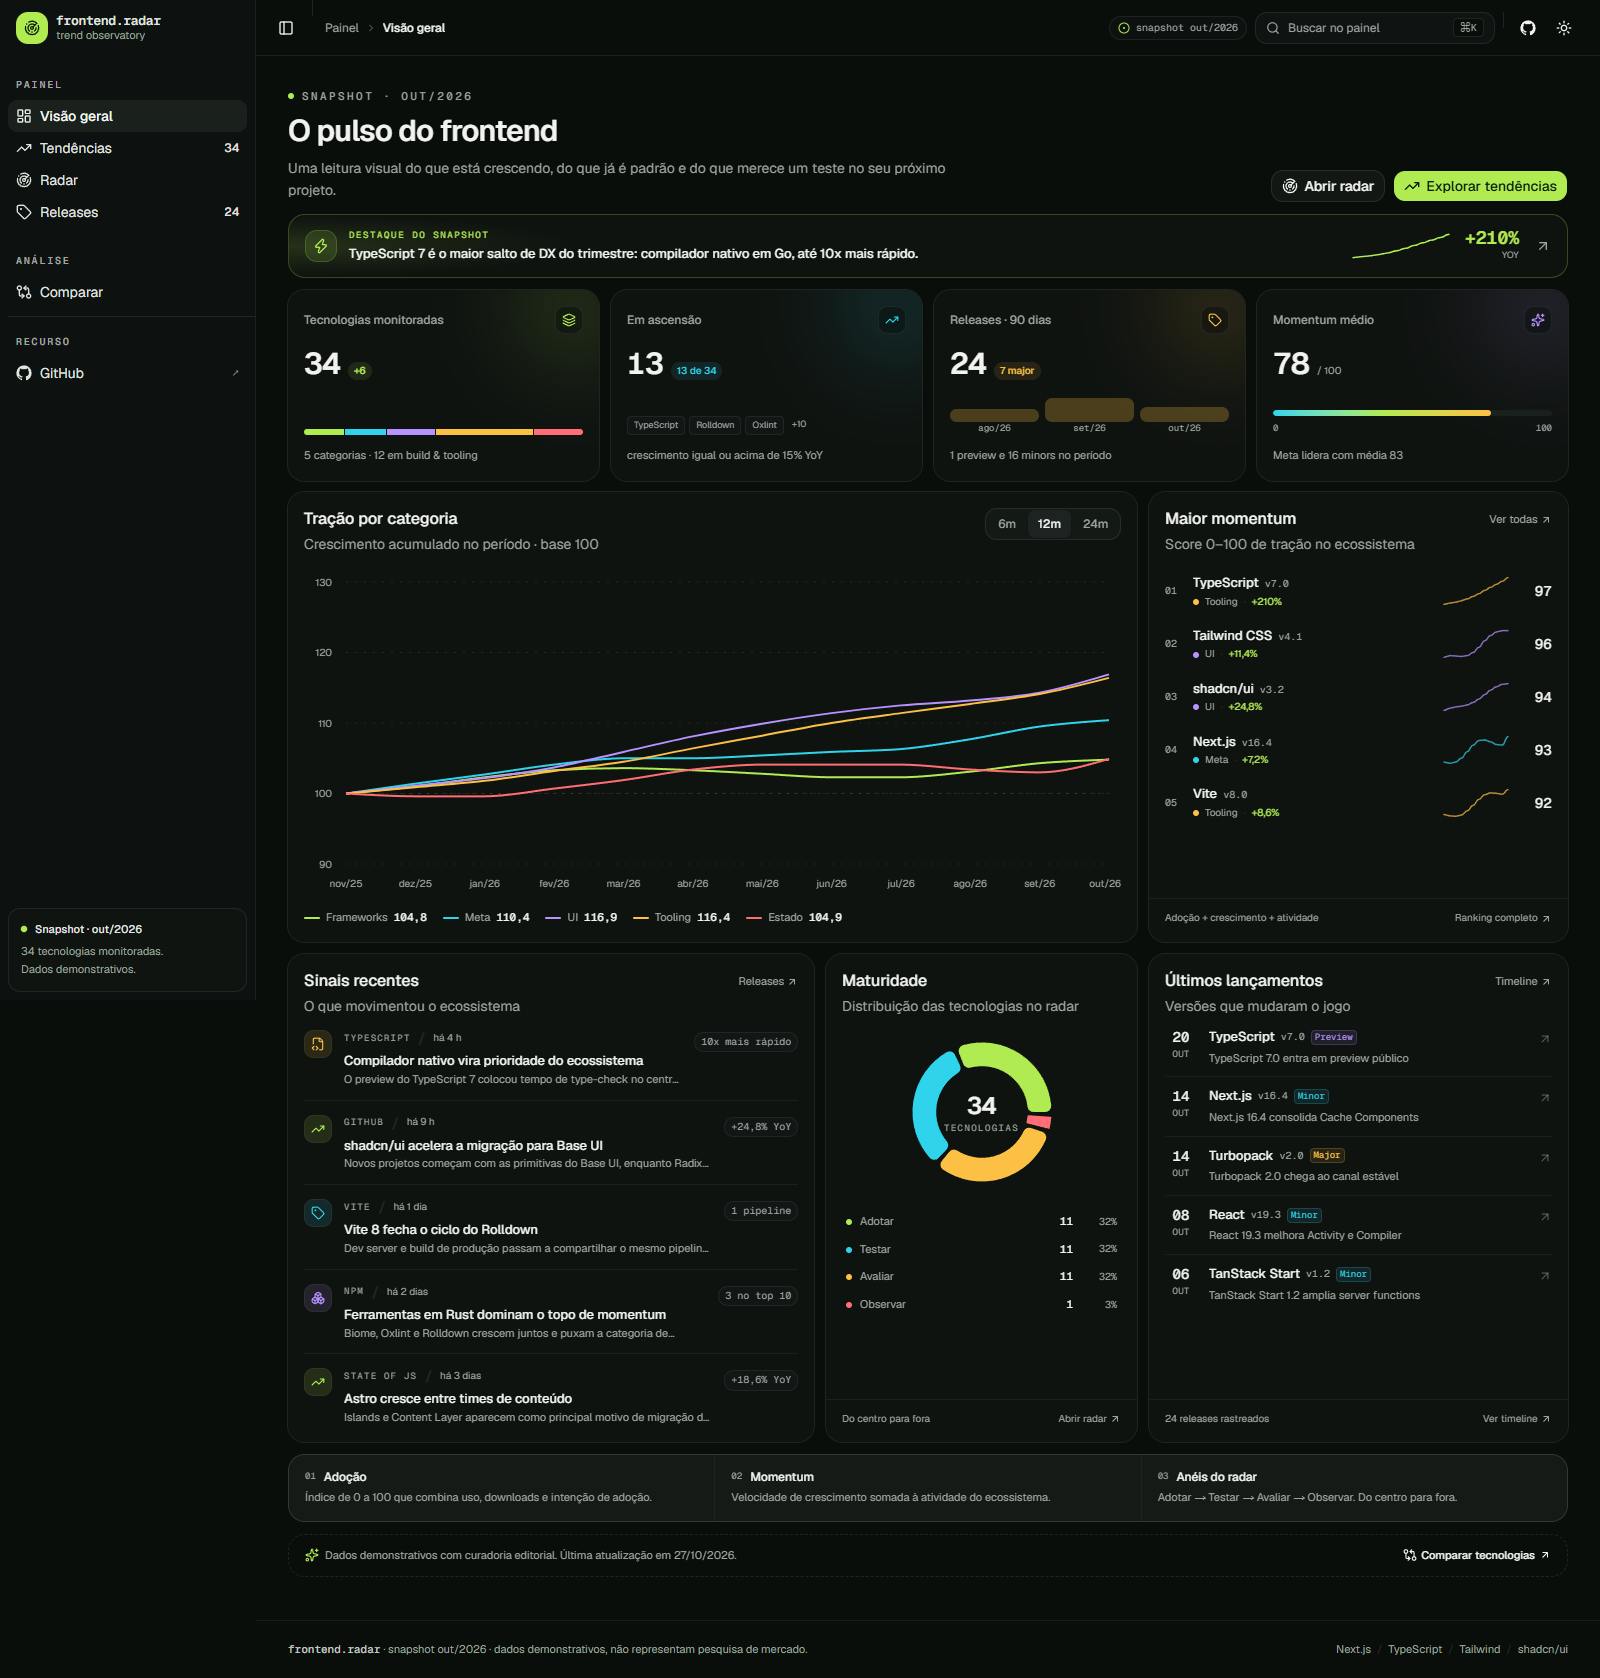
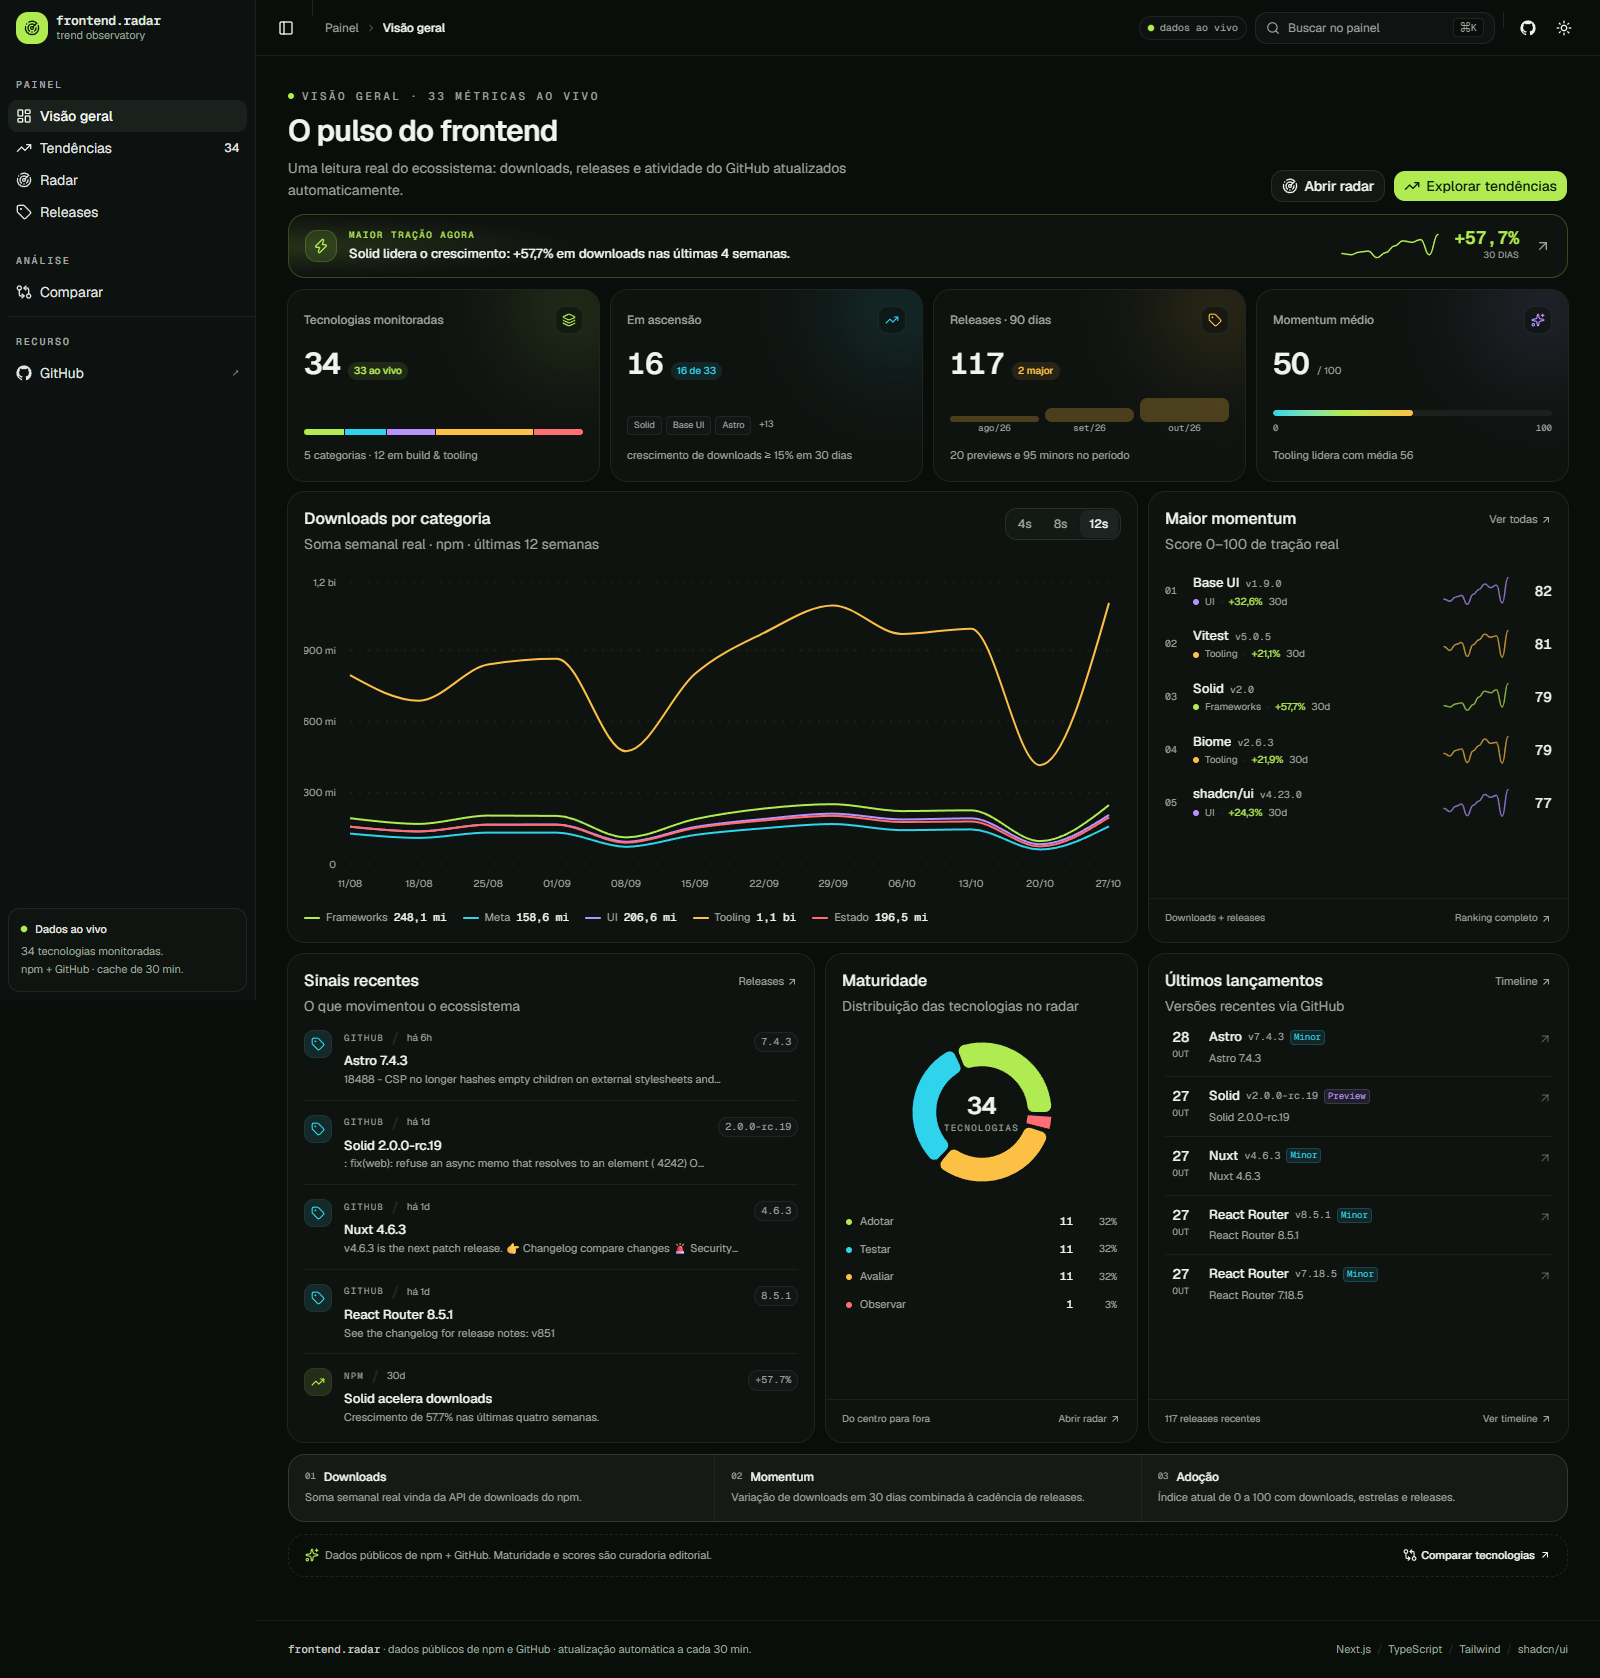
docs: describe live data sources, cache and deployment

diff --git a/README.md b/README.md
@@ -1,6 +1,6 @@
 # Frontend Radar
 
-Dashboard interativo para acompanhar **tendências, releases e maturidade das tecnologias do ecossistema frontend**.
+Dashboard interativo para acompanhar **tendências, releases e atividade das tecnologias do ecossistema frontend** com dados públicos de **npm e GitHub**.
 
 [![CI](https://github.com/mvnulman/frontend-dashboard/actions/workflows/ci.yml/badge.svg)](https://github.com/mvnulman/frontend-dashboard/actions/workflows/ci.yml)
 [![Next.js 16](https://img.shields.io/badge/Next.js-16-000000?logo=nextdotjs)](https://nextjs.org)
@@ -12,30 +12,32 @@ Dashboard interativo para acompanhar **tendências, releases e maturidade das te
 
 ## O que é
 
-O **Frontend Radar** transforma um snapshot curado do ecossistema em uma experiência de leitura visual: índice de adoção, momentum, maturidade, categorias, releases e comparações lado a lado.
+O **Frontend Radar** combina métricas reais de adoção com uma camada editorial para transformar o ecossistema em uma leitura visual: downloads, releases, momentum, maturidade, categorias e comparações lado a lado.
 
-O painel foi desenhado para ser **estático, rápido e navegável**, com foco em visualização de dados, microinterações e leitura confortável em desktop e mobile.
+- **Dados automáticos:** npm Downloads, npm Registry e GitHub.
+- **Atualização:** cache de 30 minutos no servidor; a primeira requisição busca as fontes, as seguintes reutilizam o cache.
+- **Camada editorial:** maturidade no radar, scores e contexto de uso, com data de revisão.
+- **Sem banco de dados:** o painel funciona somente com as APIs públicas e o cache do Next.js.
 
-> Os dados são **demonstrativos e editoriais**. Não representam uma pesquisa de mercado, benchmark oficial ou medição em tempo real. O snapshot exibido é de **outubro de 2026**.
+> Adoção e momentum são **índices calculados** a partir de métricas públicas. Não são uma pesquisa de mercado nem um benchmark oficial. Os scores editoriais também não são medições objetivas.
 
 ## Funcionalidades
 
-- **Visão geral** com KPIs, destaque do snapshot, gráfico de tração por categoria, líderes de momentum, distribuição de maturidade, sinais recentes e últimos lançamentos.
-- **Catálogo de tendências** com busca tolerante a acentos, filtros por categoria e maturidade, ordenação, visualização em grade/lista, ficha detalhada e exportação CSV.
-- **Radar interativo** em SVG com cinco setores, quatro anéis de maturidade, filtros por categoria, painel “em foco” e índice completo por categoria.
-- **Timeline de releases** agrupada por mês, com filtros por tipo e categoria, resumo do trimestre, cadência mensal e distribuição de impacto.
-- **Comparador** de até três tecnologias com presets, radar chart de scores, leitura rápida e ficha técnica com melhores valores destacados.
+- **Visão geral** com KPIs, destaque de maior tração, downloads reais por categoria, líderes de momentum, maturidade, sinais e últimos lançamentos.
+- **Catálogo de tendências** com busca tolerante a acentos, filtros por categoria e maturidade, ordenação, grade/lista, ficha detalhada e exportação CSV.
+- **Radar interativo** em SVG com cinco setores, quatro anéis de maturidade, filtros por categoria, painel “em foco” e índice completo.
+- **Timeline de releases** capturada no GitHub, com filtros por tipo e categoria, resumo de cadência e impacto.
+- **Comparador** de até três tecnologias com presets, radar chart de scores, leitura rápida e ficha técnica.
 - **Command palette** (`⌘K` / `Ctrl+K`) para navegar, buscar tecnologias, alternar tema e copiar o link da página.
-- **Tema claro e escuro** com `next-themes` e detecção de preferência do sistema.
-- **Responsivo** de 320 px a telas amplas, com sidebar em sheet no mobile.
+- **Tema claro e escuro**, layout responsivo de 320 px a telas amplas e sidebar em sheet no mobile.
 - **Acessibilidade** auditada com axe (teclado, landmarks, labels, contraste e `prefers-reduced-motion`).
-- **Dados tipados** e séries determinísticas — sem backend ou banco de dados.
+- **Degradação transparente:** se o GitHub não estiver configurado, o painel continua com os dados do npm e exibe um aviso.
 
 ## Stack
 
 | Camada | Escolha |
 | --- | --- |
-| Framework | Next.js 16 (App Router, Cache Components, Turbopack) |
+| Framework | Next.js 16 (App Router, Cache Components, PPR) |
 | Linguagem | TypeScript strict |
 | Estilo | Tailwind CSS v4 |
 | Componentes | shadcn/ui (Base UI primitives) |
@@ -50,10 +52,10 @@ O painel foi desenhado para ser **estático, rápido e navegável**, com foco em
 
 | Rota | Descrição |
 | --- | --- |
-| `/` | Visão geral e sinais do snapshot |
+| `/` | Visão geral, downloads por categoria e sinais |
 | `/tendencias` | Catálogo filtrável de tecnologias |
 | `/radar` | Radar de adoção e maturidade |
-| `/releases` | Timeline de lançamentos |
+| `/releases` | Timeline de lançamentos do GitHub |
 | `/comparar` | Comparação de 2–3 tecnologias |
 
 ## Rodando localmente
@@ -62,16 +64,29 @@ Requisitos: **Node.js 22+** e npm.
 
 ```bash
 npm install
+cp .env.example .env.local
+# preencha GITHUB_TOKEN e, se quiser, NEXT_PUBLIC_SITE_URL
 npm run dev
+```
+
+Para gerar um token local rapidamente com o GitHub CLI:
+
+```bash
+gh auth token
 ```
 
 Abra [http://localhost:3000](http://localhost:3000).
 
-Opcionalmente, configure a URL pública usada para resolver a imagem de Open Graph:
+> Sem `GITHUB_TOKEN`, estrelas e releases não são carregados. Os downloads e a maior parte do dashboard continuam funcionando, com um aviso de cobertura parcial.
 
-```bash
-cp .env.example .env.local
-# edite NEXT_PUBLIC_SITE_URL
+## Variáveis de ambiente
+
+```env
+# URL pública usada para resolver a imagem de Open Graph.
+NEXT_PUBLIC_SITE_URL=http://localhost:3000
+
+# Token somente leitura para estrelas e releases do GitHub.
+GITHUB_TOKEN=github_pat_...
 ```
 
 ## Scripts
@@ -104,30 +119,43 @@ src/
 │   ├── shell/              # sidebar, header e command palette
 │   └── ui/                 # shadcn/ui
 └── lib/
-    ├── data.ts             # dataset e séries derivadas
+    ├── data.ts             # catálogo e curadoria editorial
+    ├── live/               # npm, GitHub, cálculo e cache
     ├── types.ts            # contratos do domínio
     ├── format.ts           # formatadores pt-BR
     └── csv.ts              # exportação CSV
-tests/                      # testes de integridade dos dados
+tests/                      # testes de cálculo e integridade
 ```
 
-## Dados
+## Como os números são calculados
 
-- **34 tecnologias** em 5 categorias: frameworks, meta-frameworks, UI & estilo, build & tooling e dados & estado.
-- **4 anéis** de maturidade: adotar, testar, avaliar e observar.
-- **24 releases** entre agosto e outubro de 2026.
-- As séries históricas são calculadas de forma determinística a partir do índice atual e do crescimento YoY, apenas para visualização.
-- Os scores editoriais (DX, performance, ecossistema, facilidade de aprendizado e estabilidade) existem para enriquecer a comparação e **não são benchmarks**.
+- **Downloads:** soma dos últimos 7 dias, com série semanal de 12 semanas, via API pública do npm.
+- **Crescimento:** comparação dos últimos 30 dias com os 30 dias anteriores.
+- **Adoção:** índice 0–100 calculado por percentis de downloads, estrelas e releases no conjunto monitorado.
+- **Momentum:** índice 0–100 que combina crescimento de downloads e cadência de releases.
+- **Maturidade e scores:** curadoria editorial, não automática.
+- **Releases:** tags do GitHub normalizadas; subpacotes de monorepos e canaries são filtrados.
 
-Para atualizar o snapshot, edite `src/lib/data.ts` — o restante do painel é derivado desse arquivo.
+Tecnologias sem fonte pública direta — como o Turbopack, distribuído dentro do Next.js — aparecem no catálogo como **curadoria** e ficam fora dos índices automáticos.
+
+## Limitações
+
+- O GitHub não expõe histórico público de estrelas; o gráfico principal usa downloads do npm, que têm histórico real.
+- A primeira requisição após o cache expirar pode levar alguns segundos.
+- APIs públicas podem falhar ou impor limites; o painel sinaliza cobertura parcial.
+- O cache usa o Data Cache do Next.js. Em serverless, a persistência é garantida pelo cache do framework, não por um banco próprio.
 
 ## Deploy
 
-O projeto é compatível com Vercel, qualquer host Node.js ou exportação estática das rotas. Em produção, defina:
+O projeto precisa de um host com runtime Node.js — **não use exportação estática**, porque os dados são buscados no servidor.
 
-```env
-NEXT_PUBLIC_SITE_URL=https://seu-dominio.com
-```
+Na Vercel:
+
+- Framework preset: **Next.js**
+- Root directory: `./`
+- Build command: `npm run build`
+- Node.js: **22.x**
+- Variáveis: `GITHUB_TOKEN` e `NEXT_PUBLIC_SITE_URL`
 
 ## Autor
 
